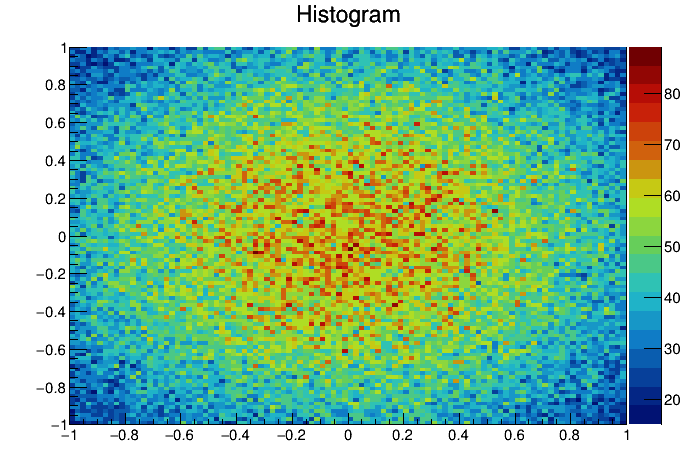
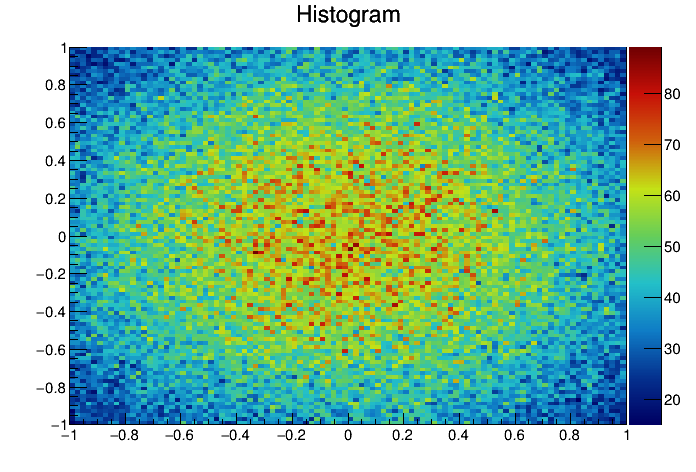
example of 2D Hist 4

diff --git a/FluxTest/FluxTest.C b/FluxTest/FluxTest.C
@@ -19,7 +19,7 @@ void FluxTest()
 	
     gStyle->SetPalette(kRainBow);
     hist->Draw();
-
+    hist->SetContour(1000);
     hist->Draw("COLZ");
     c1->Print("./Hist2D.png");
    
